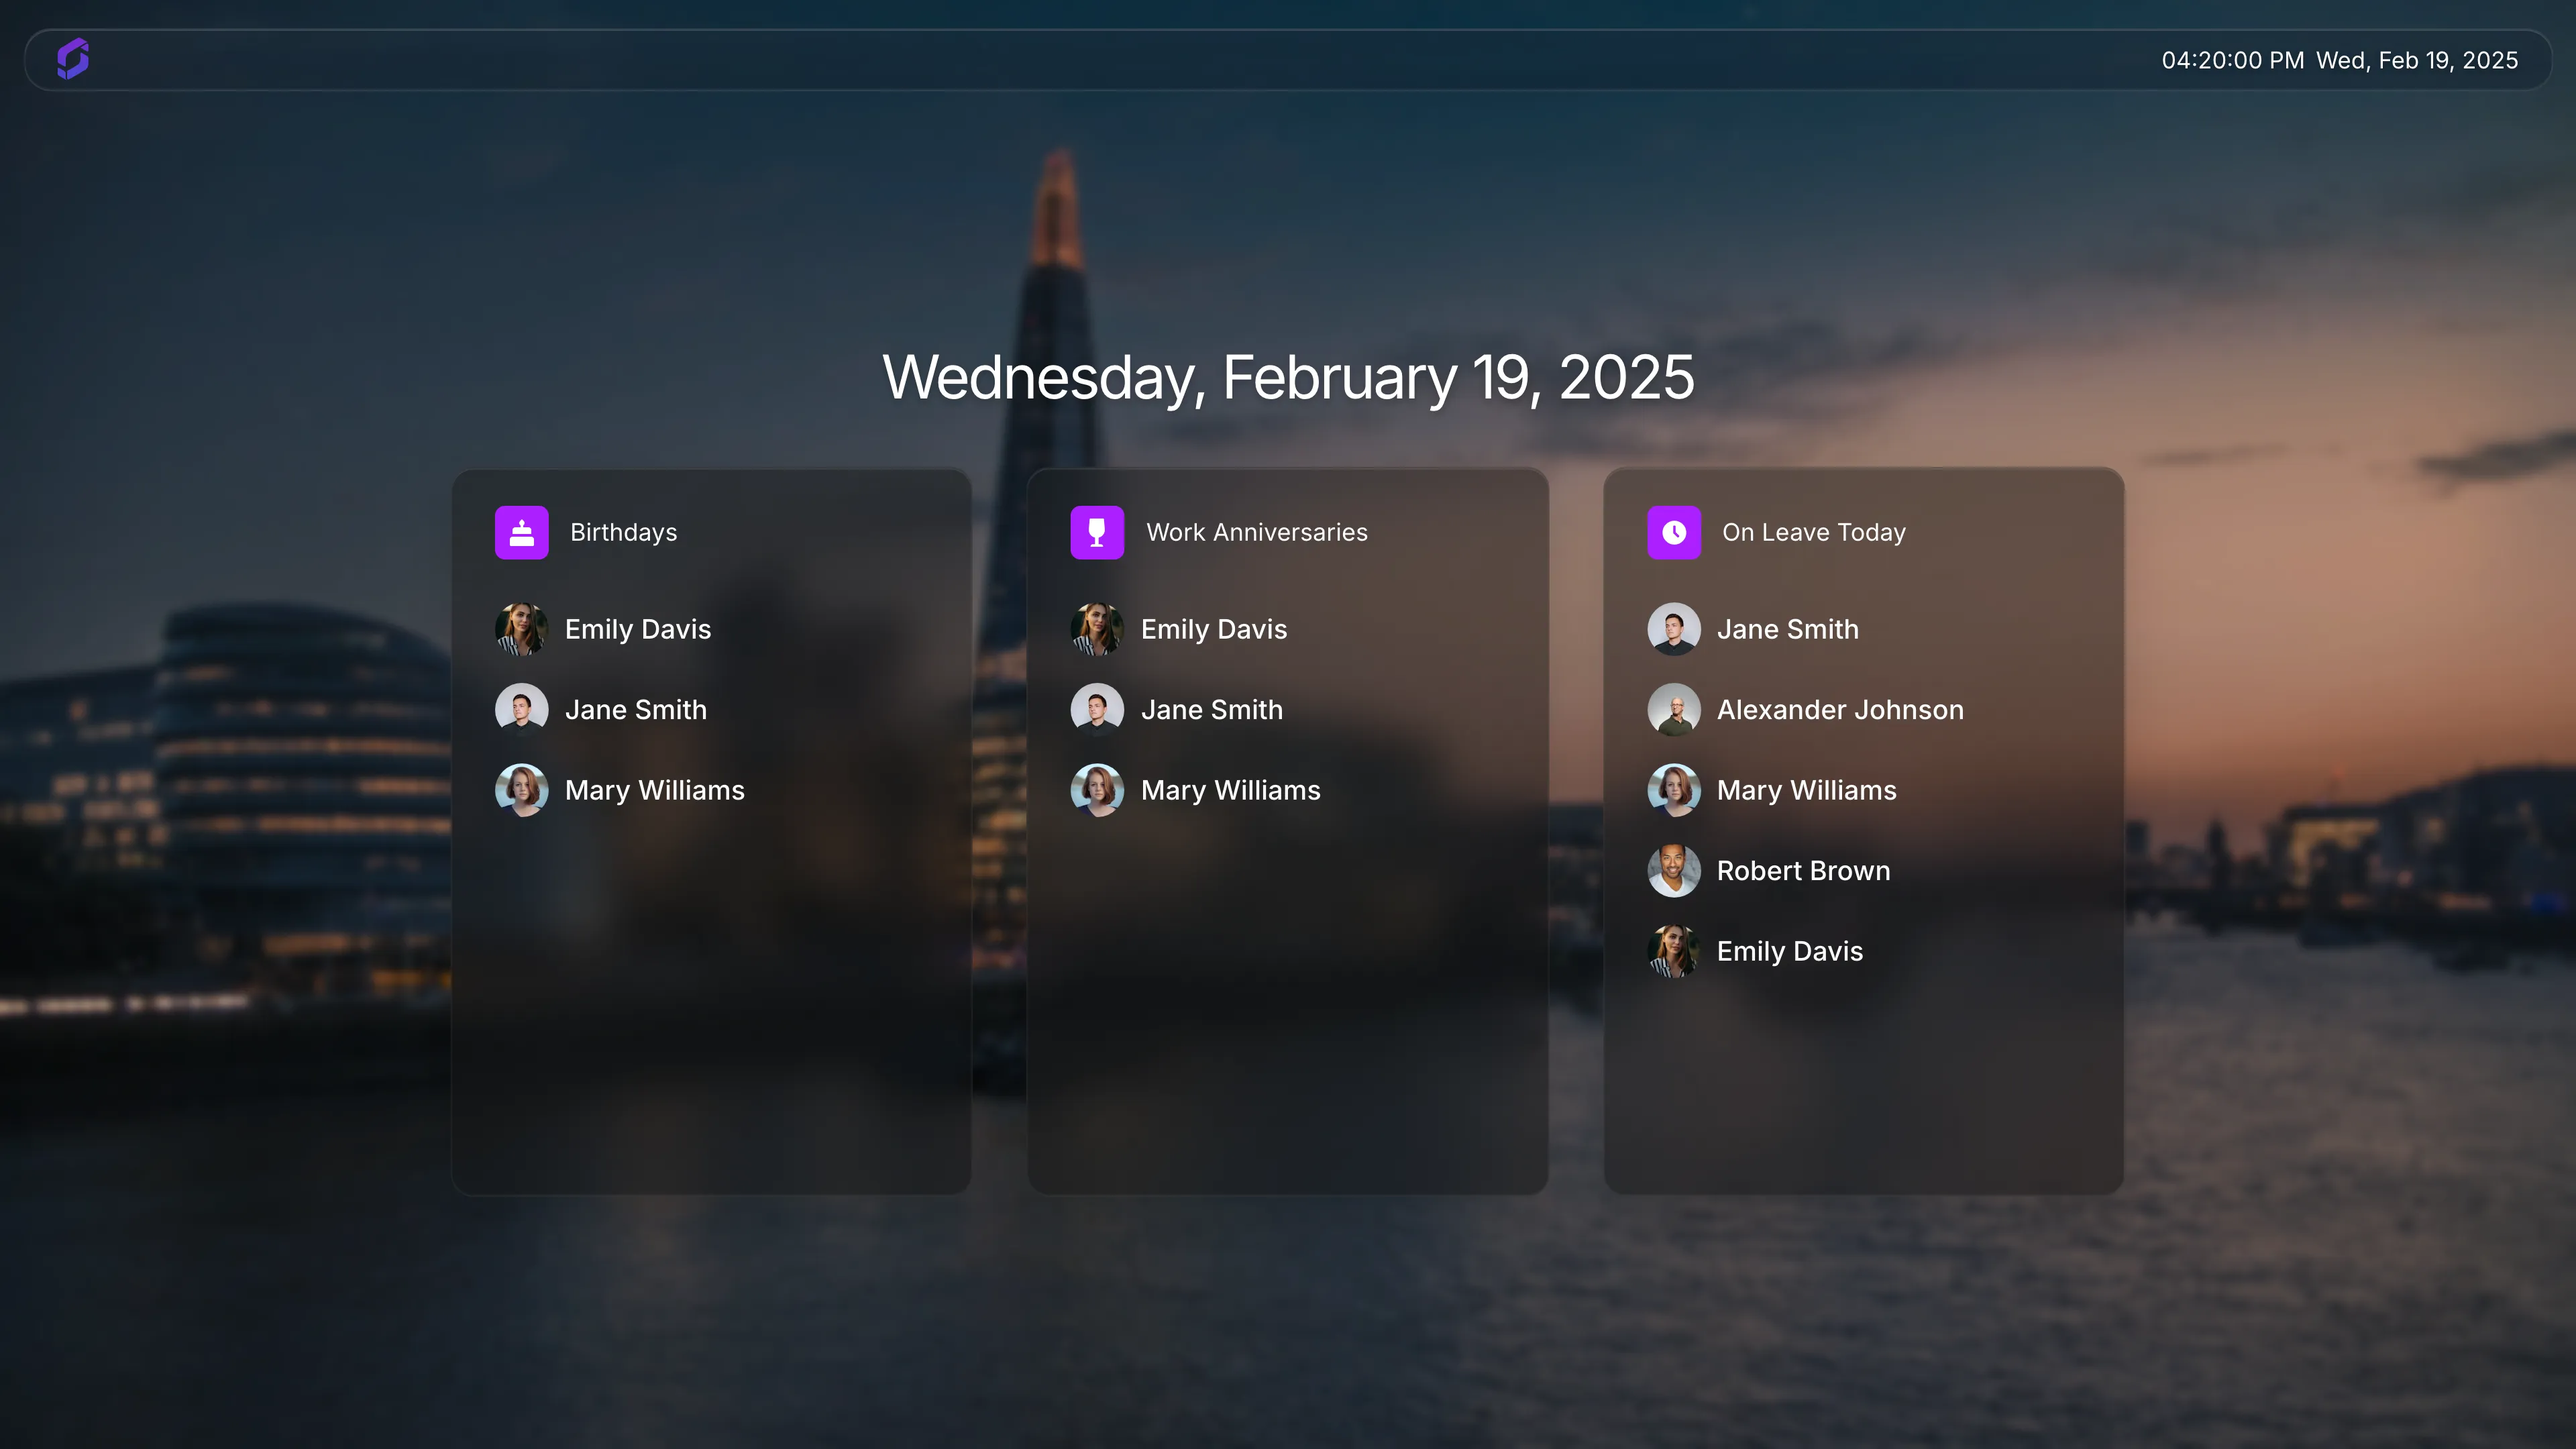
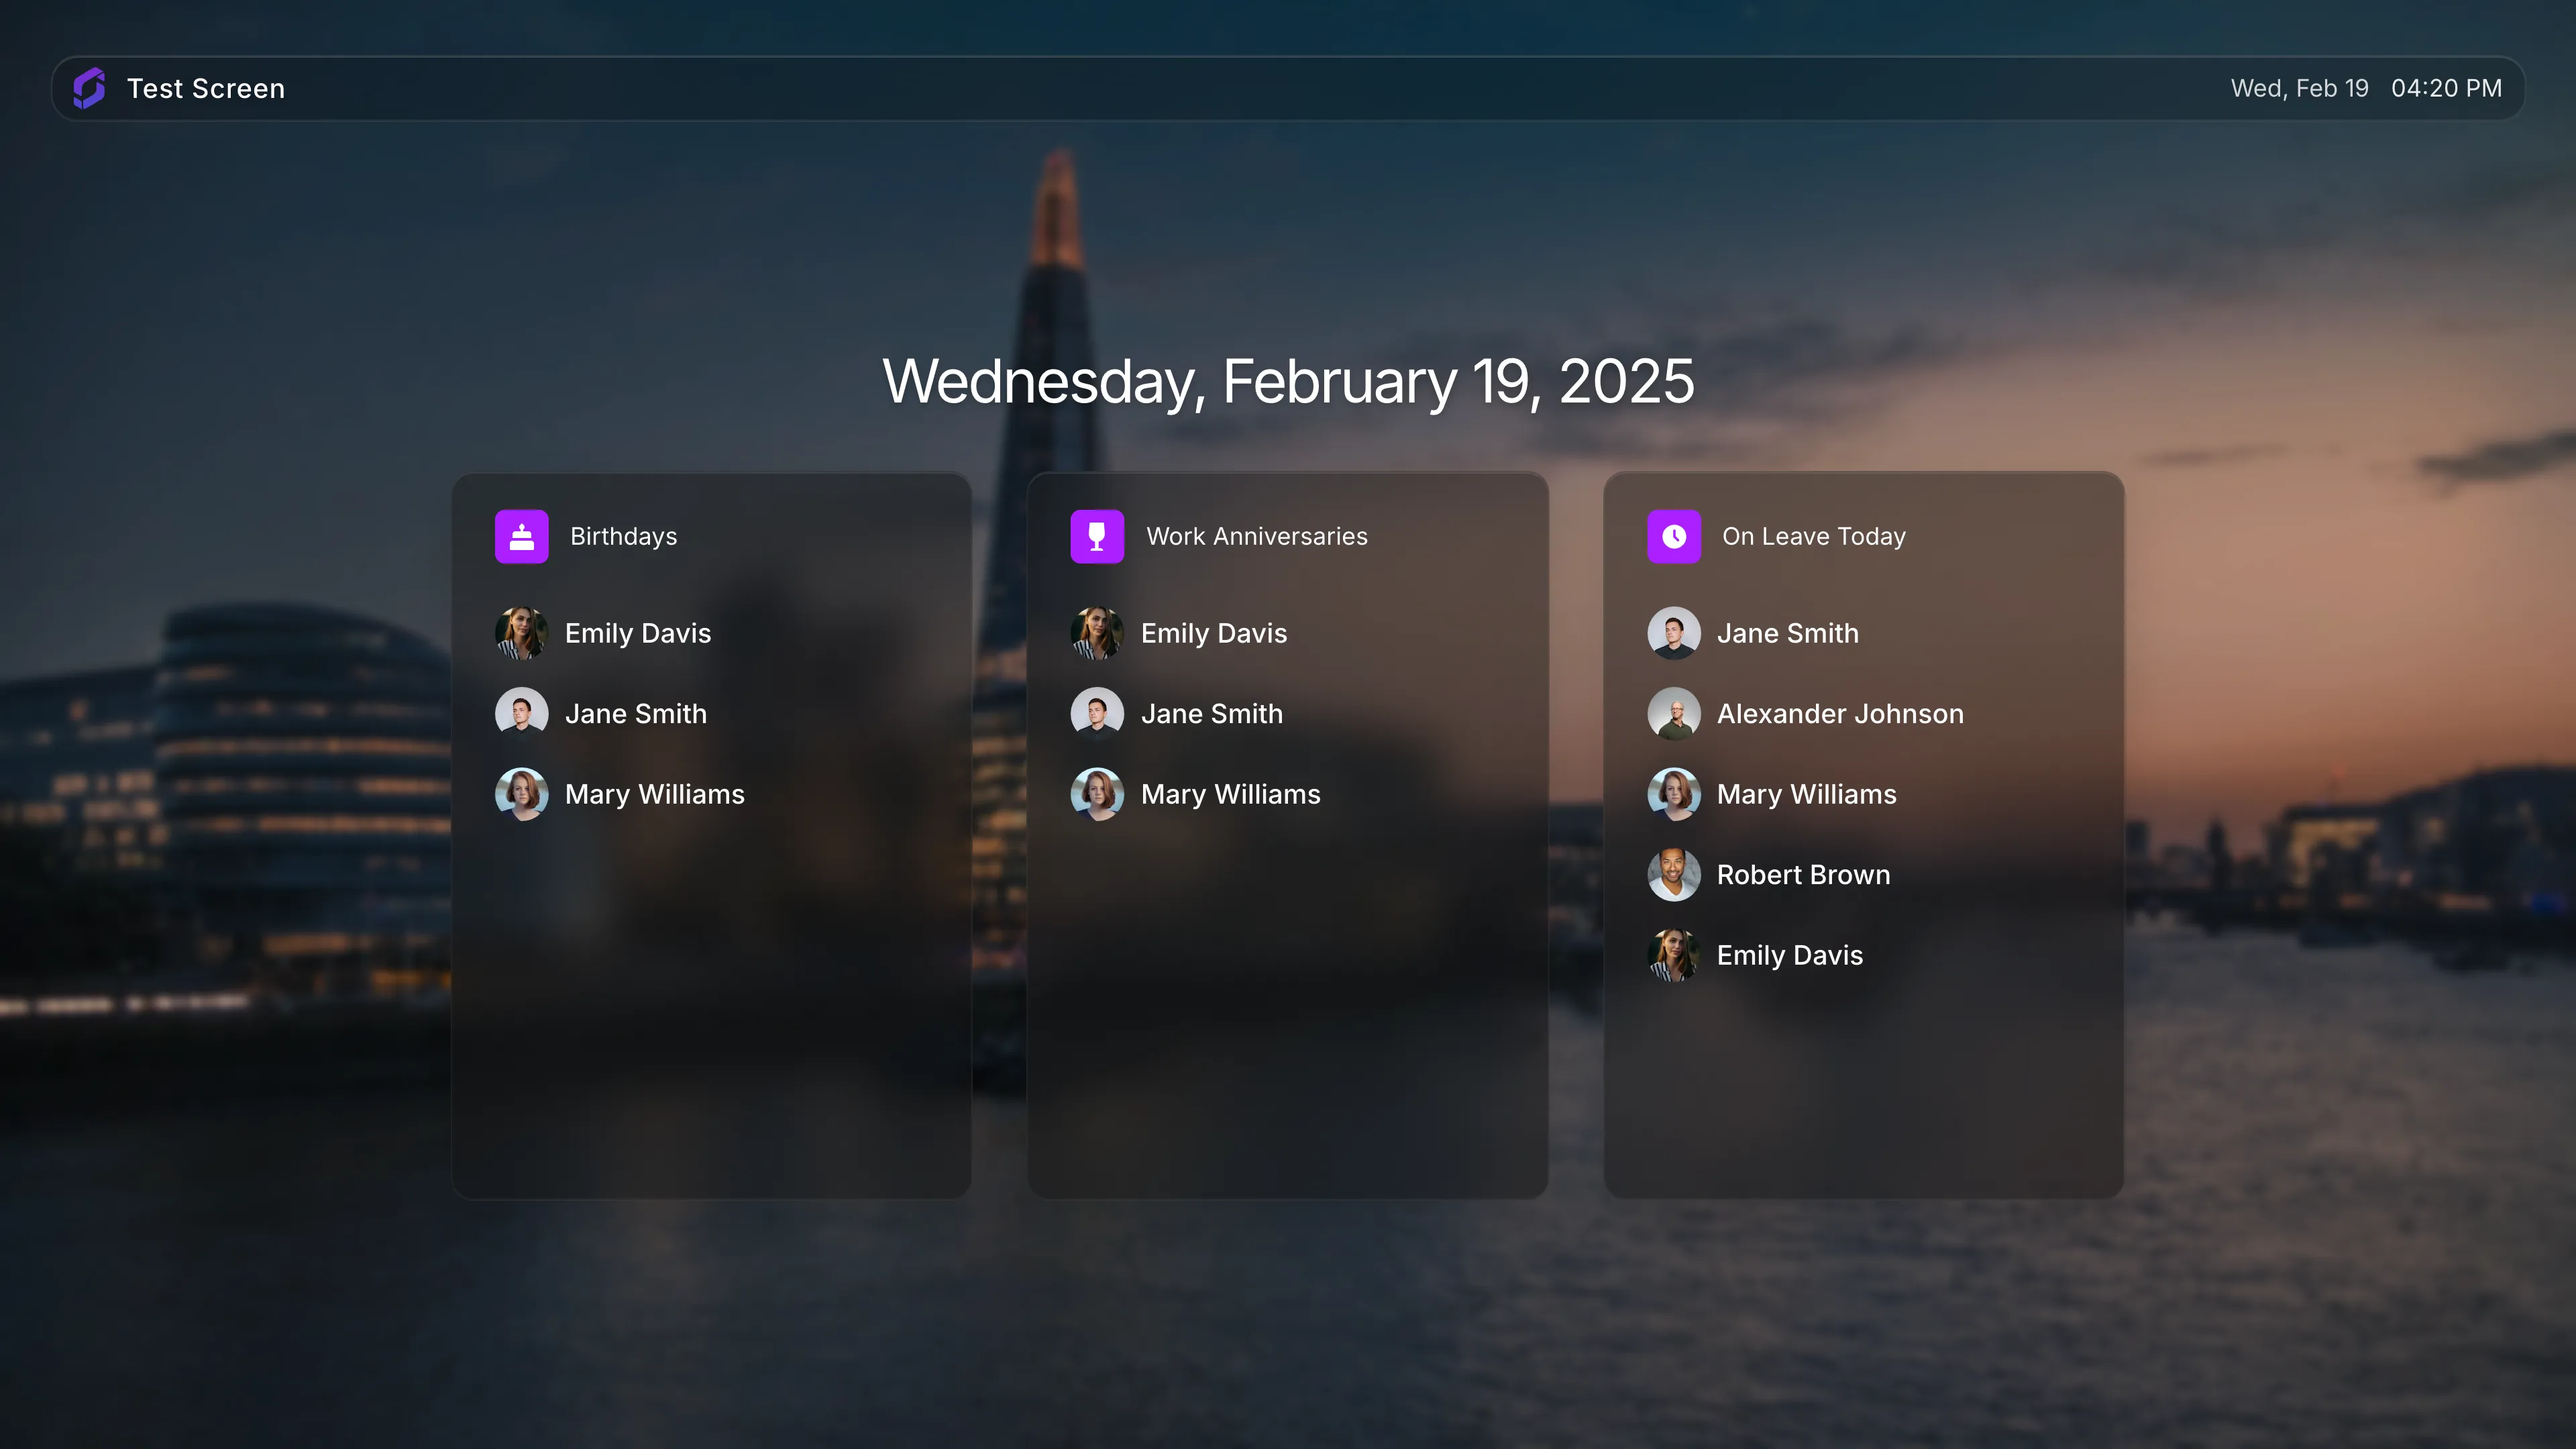
fix(bamboo-hr-app): replace custom header with app-header component
- Replace custom top-bar with app-header custom element
- Remove updateClock and related clock DOM elements
- Remove unused CSS for top-bar, logo-container, and clock-container
- Update screenshots

diff --git a/edge-apps/bamboo-hr-app/src/css/style.css b/edge-apps/bamboo-hr-app/src/css/style.css
@@ -9,12 +9,10 @@
 :root {
   --color-bg: #171e24;
   --color-card-border: rgba(255, 255, 255, 0.06);
-  --color-topbar-border: rgba(255, 255, 255, 0.1);
   --color-icon-bg: #ac1fff;
   --color-white: #ffffff;
   --color-text-shadow: rgba(0, 0, 0, 0.25);
   --radius-card: 1.05rem;
-  --radius-topbar: 1.25rem;
   --radius-avatar: 50%;
 }
 
@@ -49,53 +47,15 @@ auto-scaler {
   height: 100%;
   display: flex;
   flex-direction: column;
+  padding: 1.3rem 1.094rem 0;
 }
 
-#top-bar {
-  position: absolute;
-  top: 1.3rem;
-  left: 1.094rem;
-  right: 1.094rem;
-  display: flex;
-  align-items: center;
-  justify-content: space-between;
-  padding: 0.75rem 1.5rem;
-  border-radius: var(--radius-topbar);
-  border: 1px solid var(--color-topbar-border);
-  background-image:
-    linear-gradient(90deg, rgba(0, 0, 0, 0.2) 0%, rgba(0, 0, 0, 0.2) 100%),
-    linear-gradient(90deg, rgba(4, 34, 69, 0.2) 0%, rgba(4, 34, 69, 0.2) 100%),
-    linear-gradient(
-      178.84deg,
-      rgba(255, 255, 255, 0.08) 0%,
-      rgba(255, 255, 255, 0.02) 100%
-    );
+.header {
+  border-radius: 1.25rem;
+  background: rgba(0, 0, 0, 0.2);
   box-shadow:
     inset 0 1px 0 rgba(255, 255, 255, 0.15),
     inset 0 -1px 0 rgba(255, 255, 255, 0.05);
-  z-index: 10;
-}
-
-#logo-container {
-  display: flex;
-  align-items: center;
-}
-
-#logo-container brand-logo {
-  height: 1.25rem;
-}
-
-#clock-container {
-  display: flex;
-  align-items: baseline;
-  gap: 0.5rem;
-  font-size: 1.083rem;
-  font-weight: 400;
-  text-align: right;
-  text-shadow:
-    0 0.083rem 0.25rem rgba(0, 0, 0, 0.3),
-    0 0.042rem 0.083rem rgba(0, 0, 0, 0.1);
-  white-space: nowrap;
 }
 
 #content {
@@ -104,7 +64,7 @@ auto-scaler {
   flex-direction: column;
   align-items: center;
   justify-content: center;
-  padding: 6rem 0 2rem;
+  padding: 2rem 0;
 }
 
 #date-heading {
@@ -257,23 +217,17 @@ auto-scaler {
 }
 
 @media (orientation: portrait) {
-  #top-bar {
-    top: 0.75rem;
-    left: 0.75rem;
-    right: 0.75rem;
-    padding: 1.25rem 2rem;
+  #app {
+    padding: 0.75rem 0.75rem 0;
   }
 
-  #logo-container brand-logo {
-    height: 1.75rem;
-  }
-
-  #clock-container {
-    font-size: 1.375rem;
+  .header {
+    border-radius: 1.25rem;
+    font-size: 1.5rem;
   }
 
   #content {
-    padding: 8rem 0 2rem;
+    padding: 2rem 0;
   }
 
   #date-heading {

diff --git a/edge-apps/bamboo-hr-app/src/main.ts b/edge-apps/bamboo-hr-app/src/main.ts
@@ -2,14 +2,13 @@ import './css/style.css'
 import '@screenly/edge-apps/components'
 import {
   getCorsProxyUrl,
+  formatLocalizedDate,
   getLocale,
   getSettingWithDefault,
   getTimeZone,
   setupErrorHandling,
   setupTheme,
   signalReady,
-  formatTime,
-  formatLocalizedDate,
 } from '@screenly/edge-apps'
 import dayjs from 'dayjs'
 import utc from 'dayjs/plugin/utc'
@@ -112,21 +111,6 @@ function renderAnniversaries(employees: Employee[]): void {
   )
 }
 
-function updateClock(): void {
-  const timeEl = document.getElementById('clock-time')
-  const dateEl = document.getElementById('clock-date')
-  if (!timeEl || !dateEl) return
-
-  const now = new Date()
-  const { formatted } = formatTime(now, currentLocale, currentTimezone)
-  timeEl.textContent = formatted
-  dateEl.textContent = formatLocalizedDate(now, currentLocale, {
-    weekday: 'short',
-    day: 'numeric',
-    month: 'short',
-  })
-}
-
 function updateDateHeading(): void {
   const heading = document.getElementById('date-heading')
   if (!heading) return
@@ -162,9 +146,6 @@ document.addEventListener('DOMContentLoaded', async () => {
   setTimezone(currentTimezone)
 
   updateDateHeading()
-  updateClock()
-  setInterval(updateClock, 1_000)
-
   signalReady()
 
   if (!apiKey || !subdomain) return

diff --git a/edge-apps/bamboo-hr-app/index.html b/edge-apps/bamboo-hr-app/index.html
@@ -13,15 +13,7 @@
       orientation="auto"
     >
       <div id="app">
-        <header id="top-bar">
-          <div id="logo-container">
-            <brand-logo></brand-logo>
-          </div>
-          <div id="clock-container">
-            <span id="clock-time"></span>
-            <span id="clock-date"></span>
-          </div>
-        </header>
+        <app-header class="header" show-date></app-header>
 
         <main id="content">
           <h1 id="date-heading"></h1>
